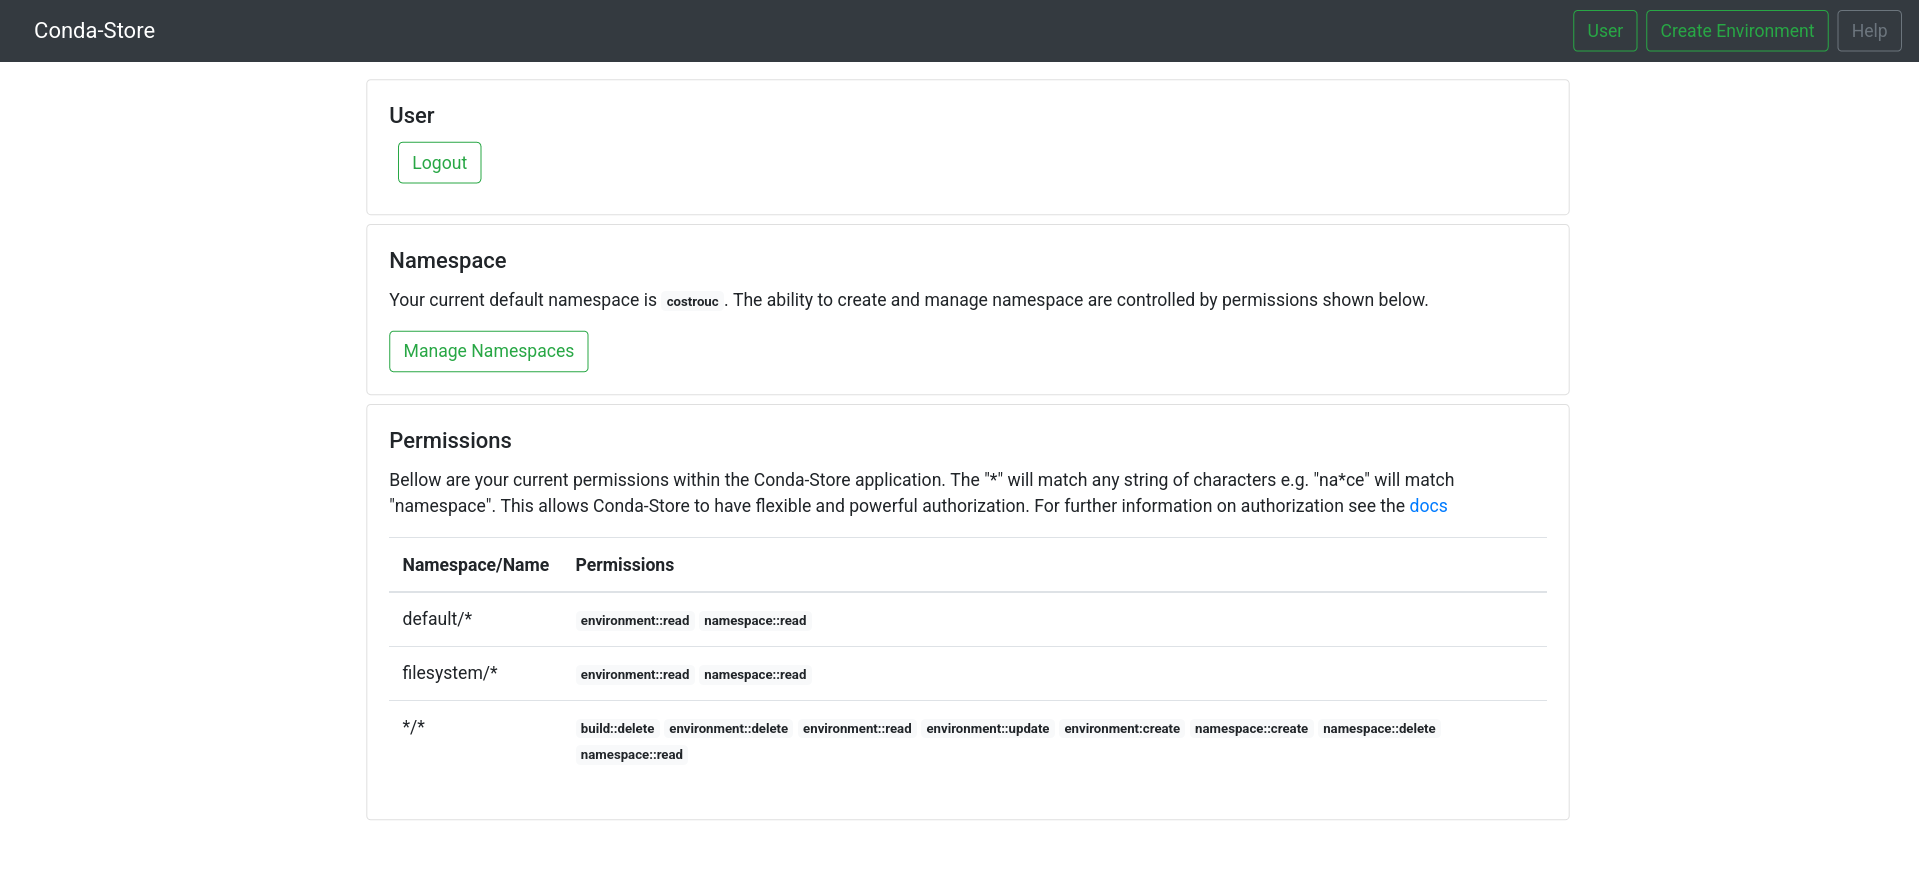
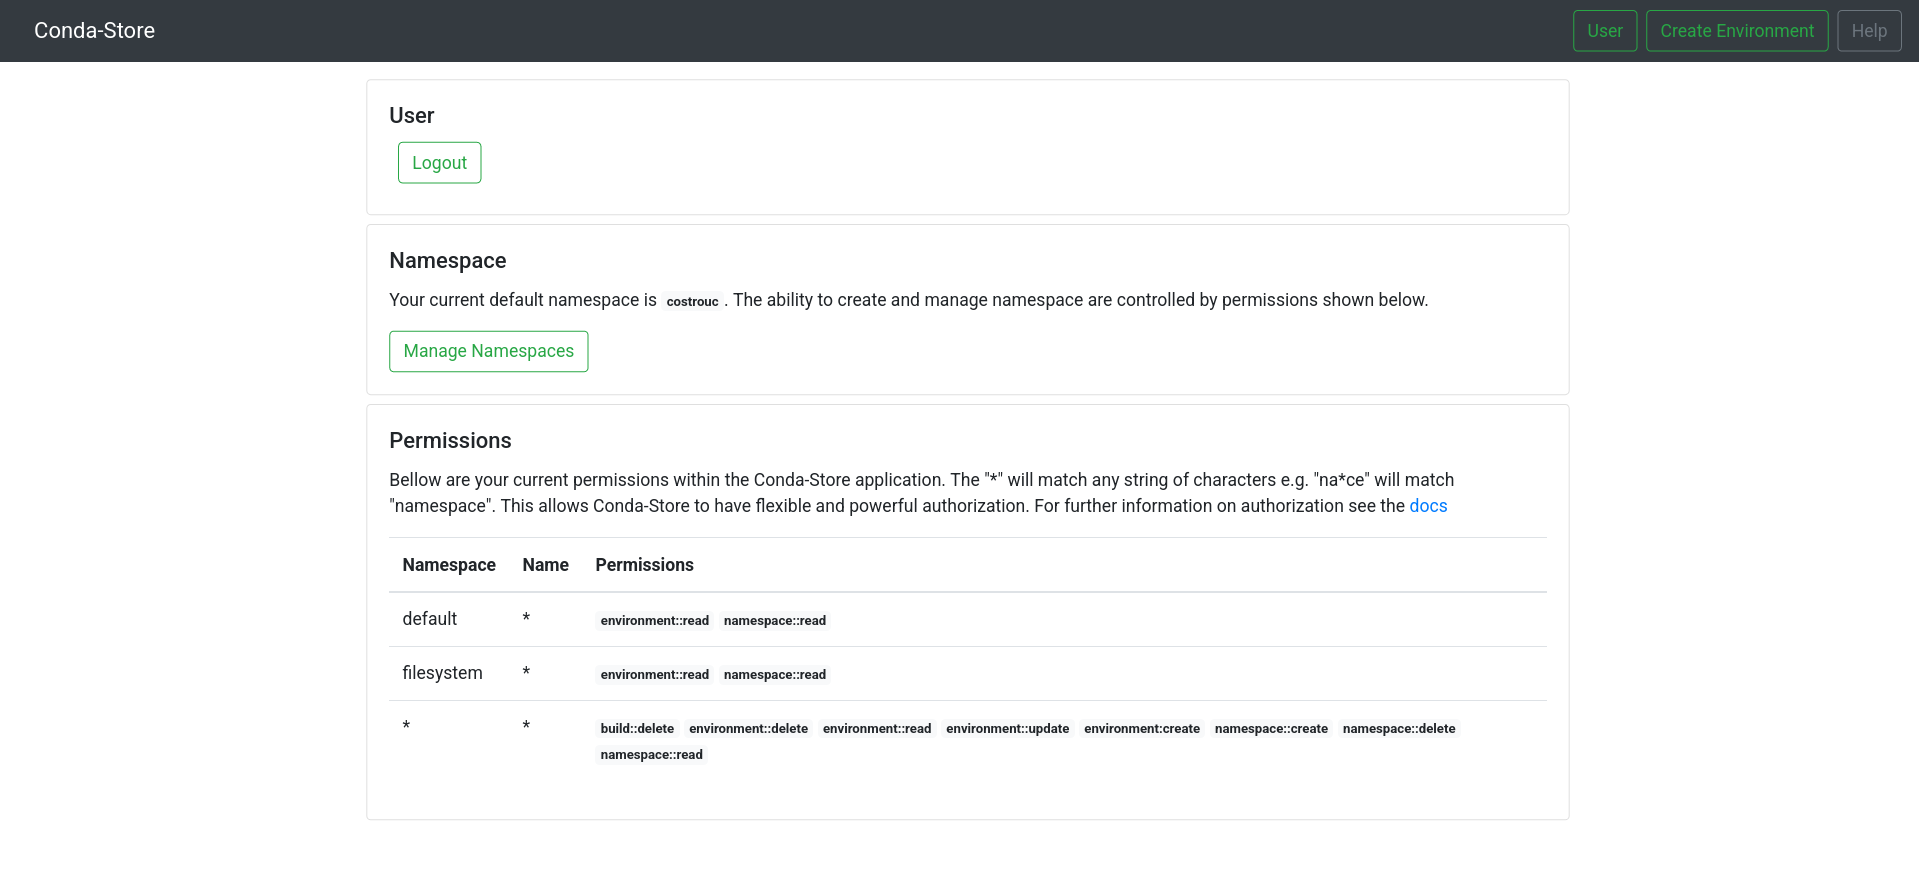
Split namespace and name in UI for user

Changed region(s): [[0.3075, 0.7576, 0.7379, 0.8788], [0.246, 0.6061, 0.3689, 0.6667], [0.3075, 0.697, 0.4304, 0.7273]]

diff --git a/conda-store-server/conda_store_server/server/templates/user.html b/conda-store-server/conda_store_server/server/templates/user.html
@@ -31,14 +31,16 @@
         <table class="table table-hover">
             <thead>
                 <tr>
-                    <th scope="col">Namespace/Name</th>
+                    <th scope="col">Namespace</th>
+                    <th scope="col">Name</th>
                     <th scope="col">Permissions</th>
                 </tr>
             </thead>
             <tbody>
                 {% for entity_arn, entity_permissions in entity_binding_permissions.items() %}
                 <tr>
-                    <td>{{ entity_arn }}</td>
+                    <td>{{ entity_arn.split("/")[0] }}</td>
+                    <td>{{ entity_arn.split("/")[1] }}</td>
                     <td>
                         {% for permission in entity_permissions|map(attribute="value")|sort %}
                         <span class="badge badge-light">{{ permission }}</span>
